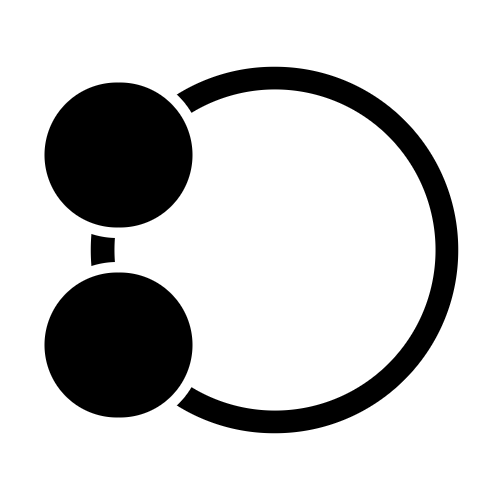
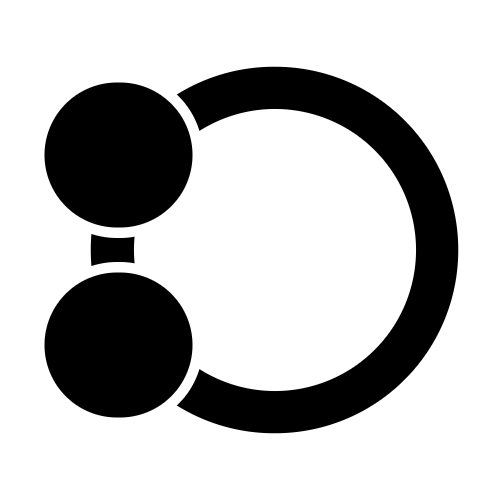
Make token attaching disabled by default; change image

Changed region(s): [[0.39, 0.18, 0.87, 0.84], [0.21, 0.45, 0.27, 0.54]]

diff --git a/index.html b/index.html
@@ -36,7 +36,7 @@
 
         <div id="visibility_toggle" onclick="javascript:visibility_toggle()" class="bottom_buttons"></div>
         <div id="move_toggle" onclick="javascript:move_toggle()" class="bottom_buttons" style="background-image: url(assets/move.png); right: 120px; background-color: green; cursor: pointer;"></div>
-        <div id="attach_toggle" onclick="javascript:attach_toggle()" class="bottom_buttons" style="background-image: url(assets/reminderAttaching.png); right: 230px; background-color: green; cursor: pointer;"></div>
+        <div id="attach_toggle" onclick="javascript:attach_toggle()" class="bottom_buttons" style="background-image: url(assets/reminderAttaching.png); right: 230px; background-color: rgb(66, 66, 66); cursor: pointer;"></div>
         
         <div id="info_box" style="display: none;">
             <div id="info_desc" class="info_tab" focus="true">
